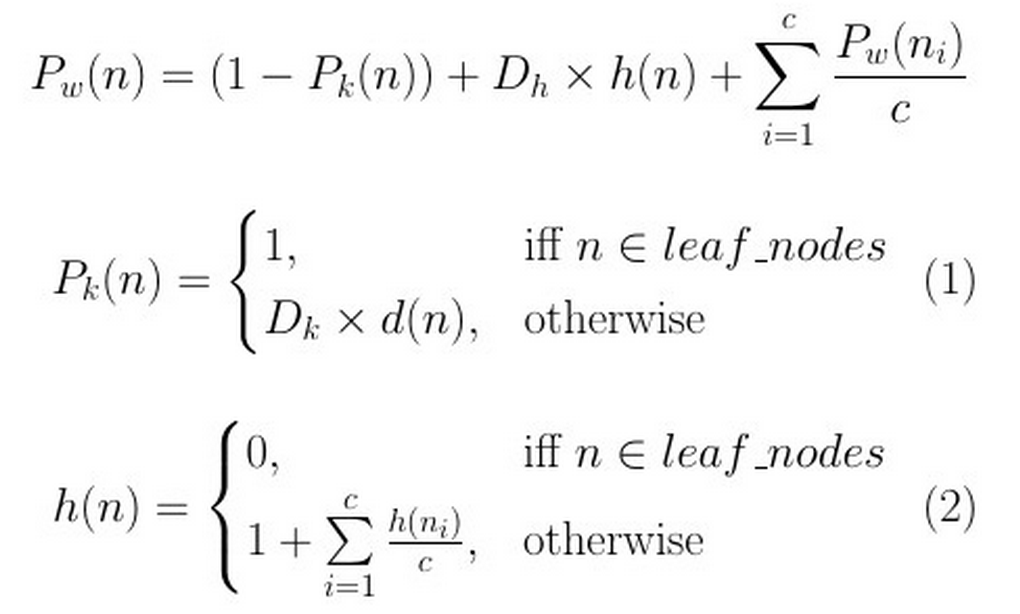
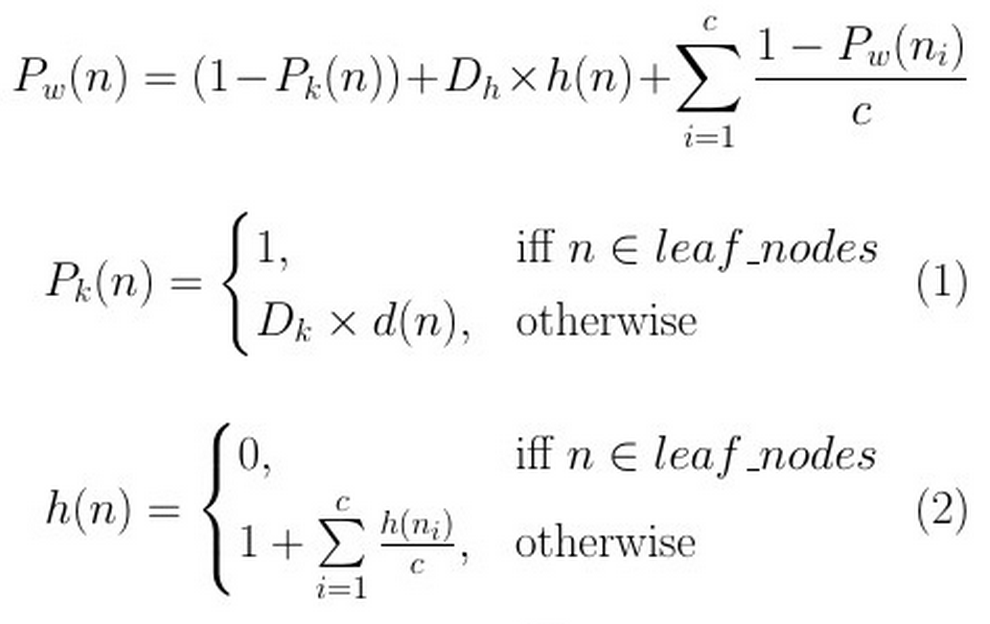
fixing the equation for child node's loosing probability

diff --git a/docs/examples.tex b/docs/examples.tex
@@ -21,7 +21,23 @@
 
 \LARGE{
 
-$$P_w(n) = D_k \times (1 - P_k(n)) + D_h \times h(n) + \sum\limits_{i=1}^c(\frac{P_w(n_i)}{c})$$
+$$P_w(n) = (1 - P_k(n)) + D_h \times h(n) + \sum\limits_{i=1}^c\frac{1 - P_w(n_i)}{c}$$
+
+\begin{equation}
+  P_k(n)=
+    \begin{cases}
+      1, & \text{iff}\ n \in leaf\_nodes \\
+      D_k \times d(n), & \text{otherwise}
+    \end{cases}
+\end{equation}
+
+\begin{equation}
+  h(n)=
+    \begin{cases}
+      0, & \text{iff}\ n \in leaf\_nodes \\
+      1 + \sum\limits_{i=1}^c\frac{h(n_i)}{c}, & \text{otherwise}
+    \end{cases}
+\end{equation}
 
 \Tree [.\circA{\LARGE a}
         [.\circB{c}
